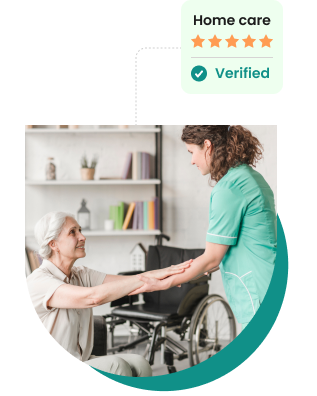
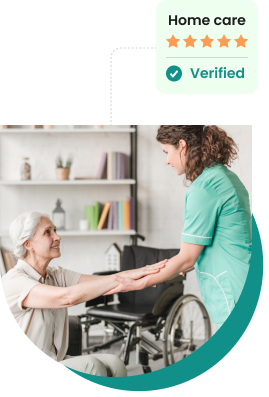
changes

diff --git a/src/layout/Header.jsx b/src/layout/Header.jsx
@@ -2,19 +2,31 @@ import React from "react";
 
 function Header() {
   return (
-    <header className="bg-gray-100 py-4 px-8 shadow-md">
-      <div className="container mx-auto flex justify-between items-center">
+    <header
+      className=" py-5 px-8 shadow-lg shadow-black border-b-2 border-[#EAEAF1]	
+
+"
+    >
+      <div className="container mx-auto flex justify-between items-center ">
         {/* Logo */}
         <div className="font-bold text-2xl">
           <a href="/" className="text-gray-800">
-            <svg width="140" height="23" viewBox="0 0 140 23" fill="none" xmlns="http://www.w3.org/2000/svg">
-              <path d="M2.308 17.5C1.828 17.5 1.436 17.404 1.132 17.212C0.828 17.004 0.62 16.732 0.508 16.396C0.412 16.044 0.412 15.66 0.508 15.244C0.62 14.828 0.844 14.412 1.18 13.996L9.916 2.548V3.676H2.02C1.492 3.676 1.084 3.54 0.796 3.268C0.524 2.996 0.388 2.612 0.388 2.116C0.388 1.62 0.524 1.244 0.796 0.987999C1.084 0.715999 1.492 0.579999 2.02 0.579999H11.668C12.164 0.579999 12.556 0.683999 12.844 0.891999C13.148 1.084 13.356 1.348 13.468 1.684C13.58 2.02 13.58 2.404 13.468 2.836C13.356 3.252 13.132 3.668 12.796 4.084L4.06 15.508V14.404H12.34C12.868 14.404 13.268 14.54 13.54 14.812C13.828 15.068 13.972 15.444 13.972 15.94C13.972 16.452 13.828 16.844 13.54 17.116C13.268 17.372 12.868 17.5 12.34 17.5H2.308ZM18.1002 22.036C17.6842 22.036 17.3402 21.924 17.0682 21.7C16.7962 21.476 16.6362 21.18 16.5882 20.812C16.5402 20.46 16.6042 20.084 16.7802 19.684L18.3882 16.132V17.62L14.1402 7.876C13.9802 7.46 13.9242 7.076 13.9722 6.724C14.0362 6.356 14.2122 6.068 14.5002 5.86C14.8042 5.636 15.2202 5.524 15.7482 5.524C16.1802 5.524 16.5242 5.628 16.7802 5.836C17.0522 6.028 17.3002 6.404 17.5242 6.964L20.3562 14.164H19.5882L22.5162 6.94C22.7402 6.396 22.9882 6.028 23.2602 5.836C23.5482 5.628 23.9322 5.524 24.4122 5.524C24.8282 5.524 25.1562 5.636 25.3962 5.86C25.6522 6.068 25.8042 6.348 25.8522 6.7C25.9162 7.052 25.8522 7.436 25.6602 7.852L20.0202 20.644C19.7802 21.188 19.5082 21.556 19.2042 21.748C18.9162 21.94 18.5482 22.036 18.1002 22.036ZM29.5531 17.716C28.9451 17.716 28.4811 17.556 28.1611 17.236C27.8411 16.916 27.6811 16.46 27.6811 15.868V7.348C27.6811 6.756 27.8331 6.308 28.1371 6.004C28.4571 5.684 28.8971 5.524 29.4571 5.524C30.0331 5.524 30.4731 5.684 30.7771 6.004C31.0811 6.308 31.2331 6.756 31.2331 7.348V8.596H30.9931C31.1851 7.636 31.6091 6.892 32.2651 6.364C32.9211 5.836 33.7691 5.54 34.8091 5.476C35.2091 5.444 35.5131 5.548 35.7211 5.788C35.9451 6.012 36.0651 6.388 36.0811 6.916C36.1131 7.412 36.0091 7.804 35.7691 8.092C35.5451 8.38 35.1611 8.556 34.6171 8.62L34.0651 8.668C33.1531 8.748 32.4731 9.012 32.0251 9.46C31.5931 9.908 31.3771 10.556 31.3771 11.404V15.868C31.3771 16.46 31.2171 16.916 30.8971 17.236C30.5931 17.556 30.1451 17.716 29.5531 17.716ZM41.4385 17.764C40.5745 17.764 39.7985 17.596 39.1105 17.26C38.4225 16.924 37.8865 16.468 37.5025 15.892C37.1185 15.316 36.9265 14.668 36.9265 13.948C36.9265 13.084 37.1505 12.404 37.5985 11.908C38.0465 11.396 38.7745 11.036 39.7825 10.828C40.7905 10.604 42.1265 10.492 43.7905 10.492H45.0625V12.364H43.8145C42.9985 12.364 42.3345 12.412 41.8225 12.508C41.3265 12.588 40.9665 12.732 40.7425 12.94C40.5345 13.148 40.4305 13.436 40.4305 13.804C40.4305 14.252 40.5825 14.62 40.8865 14.908C41.2065 15.196 41.6625 15.34 42.2545 15.34C42.7185 15.34 43.1265 15.236 43.4785 15.028C43.8465 14.804 44.1345 14.508 44.3425 14.14C44.5505 13.756 44.6545 13.324 44.6545 12.844V10.084C44.6545 9.38 44.4945 8.884 44.1745 8.596C43.8545 8.292 43.3105 8.14 42.5425 8.14C42.1105 8.14 41.6385 8.196 41.1265 8.308C40.6305 8.404 40.0785 8.572 39.4705 8.812C39.1185 8.972 38.8065 9.012 38.5345 8.932C38.2625 8.836 38.0545 8.676 37.9105 8.452C37.7665 8.212 37.6945 7.956 37.6945 7.684C37.6945 7.396 37.7745 7.124 37.9345 6.868C38.0945 6.596 38.3585 6.396 38.7265 6.268C39.4785 5.964 40.1825 5.756 40.8385 5.644C41.5105 5.532 42.1265 5.476 42.6865 5.476C43.9185 5.476 44.9265 5.66 45.7105 6.028C46.5105 6.38 47.1105 6.932 47.5105 7.684C47.9105 8.42 48.1105 9.372 48.1105 10.54V15.868C48.1105 16.46 47.9665 16.916 47.6785 17.236C47.3905 17.556 46.9745 17.716 46.4305 17.716C45.8865 17.716 45.4625 17.556 45.1585 17.236C44.8705 16.916 44.7265 16.46 44.7265 15.868V14.98L44.8945 15.124C44.7985 15.668 44.5905 16.14 44.2705 16.54C43.9665 16.924 43.5745 17.228 43.0945 17.452C42.6145 17.66 42.0625 17.764 41.4385 17.764ZM52.9979 17.716C52.3899 17.716 51.9259 17.548 51.6059 17.212C51.2859 16.876 51.1259 16.404 51.1259 15.796V2.284C51.1259 1.676 51.2859 1.204 51.6059 0.868C51.9259 0.531999 52.3899 0.363999 52.9979 0.363999C53.5899 0.363999 54.0459 0.531999 54.3659 0.868C54.6859 1.204 54.8459 1.676 54.8459 2.284V7.372H62.7179V2.284C62.7179 1.676 62.8779 1.204 63.1979 0.868C63.5179 0.531999 63.9739 0.363999 64.5659 0.363999C65.1739 0.363999 65.6379 0.531999 65.9579 0.868C66.2779 1.204 66.4379 1.676 66.4379 2.284V15.796C66.4379 16.404 66.2779 16.876 65.9579 17.212C65.6379 17.548 65.1739 17.716 64.5659 17.716C63.9739 17.716 63.5179 17.548 63.1979 17.212C62.8779 16.876 62.7179 16.404 62.7179 15.796V10.468H54.8459V15.796C54.8459 16.404 54.6859 16.876 54.3659 17.212C54.0619 17.548 53.6059 17.716 52.9979 17.716ZM75.6604 17.764C74.2684 17.764 73.0684 17.516 72.0604 17.02C71.0684 16.508 70.3004 15.796 69.7564 14.884C69.2284 13.956 68.9644 12.868 68.9644 11.62C68.9644 10.404 69.2204 9.34 69.7324 8.428C70.2444 7.5 70.9564 6.78 71.8684 6.268C72.7964 5.74 73.8444 5.476 75.0124 5.476C75.8604 5.476 76.6284 5.62 77.3164 5.908C78.0044 6.18 78.5964 6.58 79.0924 7.108C79.5884 7.62 79.9644 8.252 80.2204 9.004C80.4764 9.74 80.6044 10.564 80.6044 11.476C80.6044 11.78 80.5084 12.012 80.3164 12.172C80.1244 12.316 79.8444 12.388 79.4764 12.388H71.9404V10.516H77.9884L77.6044 10.852C77.6044 10.196 77.5084 9.652 77.3164 9.22C77.1244 8.772 76.8444 8.436 76.4764 8.212C76.1244 7.988 75.6844 7.876 75.1564 7.876C74.5644 7.876 74.0604 8.012 73.6444 8.284C73.2284 8.556 72.9084 8.948 72.6844 9.46C72.4604 9.972 72.3484 10.588 72.3484 11.308V11.5C72.3484 12.716 72.6284 13.612 73.1884 14.188C73.7644 14.764 74.6124 15.052 75.7324 15.052C76.1164 15.052 76.5564 15.004 77.0524 14.908C77.5484 14.812 78.0124 14.66 78.4444 14.452C78.8124 14.276 79.1404 14.22 79.4284 14.284C79.7164 14.332 79.9404 14.46 80.1004 14.668C80.2604 14.876 80.3484 15.116 80.3644 15.388C80.3964 15.66 80.3404 15.932 80.1964 16.204C80.0524 16.46 79.8124 16.676 79.4764 16.852C78.9324 17.156 78.3164 17.38 77.6284 17.524C76.9564 17.684 76.3004 17.764 75.6604 17.764ZM86.6963 17.764C85.8323 17.764 85.0563 17.596 84.3683 17.26C83.6803 16.924 83.1443 16.468 82.7603 15.892C82.3763 15.316 82.1843 14.668 82.1843 13.948C82.1843 13.084 82.4083 12.404 82.8563 11.908C83.3043 11.396 84.0323 11.036 85.0403 10.828C86.0483 10.604 87.3843 10.492 89.0483 10.492H90.3203V12.364H89.0723C88.2563 12.364 87.5923 12.412 87.0803 12.508C86.5843 12.588 86.2243 12.732 86.0003 12.94C85.7923 13.148 85.6883 13.436 85.6883 13.804C85.6883 14.252 85.8403 14.62 86.1443 14.908C86.4643 15.196 86.9203 15.34 87.5123 15.34C87.9763 15.34 88.3843 15.236 88.7363 15.028C89.1043 14.804 89.3923 14.508 89.6003 14.14C89.8083 13.756 89.9123 13.324 89.9123 12.844V10.084C89.9123 9.38 89.7523 8.884 89.4323 8.596C89.1123 8.292 88.5683 8.14 87.8003 8.14C87.3683 8.14 86.8963 8.196 86.3843 8.308C85.8883 8.404 85.3363 8.572 84.7283 8.812C84.3763 8.972 84.0643 9.012 83.7923 8.932C83.5203 8.836 83.3123 8.676 83.1683 8.452C83.0243 8.212 82.9523 7.956 82.9523 7.684C82.9523 7.396 83.0323 7.124 83.1923 6.868C83.3523 6.596 83.6163 6.396 83.9843 6.268C84.7363 5.964 85.4403 5.756 86.0963 5.644C86.7683 5.532 87.3843 5.476 87.9443 5.476C89.1763 5.476 90.1843 5.66 90.9683 6.028C91.7683 6.38 92.3683 6.932 92.7683 7.684C93.1683 8.42 93.3683 9.372 93.3683 10.54V15.868C93.3683 16.46 93.2243 16.916 92.9363 17.236C92.6483 17.556 92.2323 17.716 91.6883 17.716C91.1443 17.716 90.7203 17.556 90.4163 17.236C90.1283 16.916 89.9843 16.46 89.9843 15.868V14.98L90.1523 15.124C90.0563 15.668 89.8483 16.14 89.5283 16.54C89.2243 16.924 88.8323 17.228 88.3523 17.452C87.8723 17.66 87.3203 17.764 86.6963 17.764ZM100.32 17.764C98.8957 17.764 97.8317 17.372 97.1277 16.588C96.4237 15.788 96.0717 14.604 96.0717 13.036V2.212C96.0717 1.604 96.2237 1.148 96.5277 0.844C96.8477 0.523999 97.3037 0.363999 97.8957 0.363999C98.4717 0.363999 98.9117 0.523999 99.2157 0.844C99.5357 1.148 99.6957 1.604 99.6957 2.212V12.892C99.6957 13.548 99.8317 14.036 100.104 14.356C100.392 14.66 100.768 14.812 101.232 14.812C101.36 14.812 101.48 14.804 101.592 14.788C101.704 14.772 101.824 14.764 101.952 14.764C102.208 14.732 102.384 14.812 102.48 15.004C102.592 15.18 102.648 15.54 102.648 16.084C102.648 16.564 102.552 16.932 102.36 17.188C102.168 17.428 101.872 17.588 101.472 17.668C101.312 17.684 101.128 17.7 100.92 17.716C100.712 17.748 100.512 17.764 100.32 17.764ZM109.496 17.764C108.392 17.764 107.464 17.58 106.712 17.212C105.976 16.844 105.424 16.308 105.056 15.604C104.704 14.9 104.528 14.012 104.528 12.94V8.428H103.52C103.072 8.428 102.72 8.308 102.464 8.068C102.224 7.828 102.104 7.5 102.104 7.084C102.104 6.636 102.224 6.3 102.464 6.076C102.72 5.836 103.072 5.716 103.52 5.716H104.528V3.892C104.528 3.284 104.688 2.828 105.008 2.524C105.328 2.204 105.776 2.044 106.352 2.044C106.944 2.044 107.392 2.204 107.696 2.524C108 2.828 108.152 3.284 108.152 3.892V5.716H110.432C110.88 5.716 111.224 5.836 111.464 6.076C111.704 6.3 111.824 6.636 111.824 7.084C111.824 7.5 111.704 7.828 111.464 8.068C111.224 8.308 110.88 8.428 110.432 8.428H108.152V12.796C108.152 13.468 108.304 13.972 108.608 14.308C108.928 14.644 109.432 14.812 110.12 14.812C110.36 14.812 110.584 14.788 110.792 14.74C111 14.692 111.192 14.66 111.368 14.644C111.592 14.628 111.776 14.7 111.92 14.86C112.064 15.004 112.136 15.332 112.136 15.844C112.136 16.228 112.072 16.564 111.944 16.852C111.816 17.14 111.592 17.348 111.272 17.476C111.064 17.556 110.776 17.62 110.408 17.668C110.056 17.732 109.752 17.764 109.496 17.764ZM115.614 17.716C115.022 17.716 114.566 17.556 114.246 17.236C113.942 16.916 113.79 16.46 113.79 15.868V2.212C113.79 1.604 113.942 1.148 114.246 0.844C114.566 0.523999 115.022 0.363999 115.614 0.363999C116.19 0.363999 116.63 0.523999 116.934 0.844C117.254 1.148 117.414 1.604 117.414 2.212V7.924H117.078C117.446 7.14 117.99 6.54 118.71 6.124C119.446 5.692 120.278 5.476 121.206 5.476C122.15 5.476 122.926 5.66 123.534 6.028C124.142 6.38 124.598 6.924 124.902 7.66C125.206 8.38 125.358 9.3 125.358 10.42V15.868C125.358 16.46 125.198 16.916 124.878 17.236C124.574 17.556 124.126 17.716 123.534 17.716C122.958 17.716 122.51 17.556 122.19 17.236C121.886 16.916 121.734 16.46 121.734 15.868V10.588C121.734 9.772 121.582 9.188 121.278 8.836C120.99 8.468 120.542 8.284 119.934 8.284C119.166 8.284 118.55 8.524 118.086 9.004C117.638 9.484 117.414 10.124 117.414 10.924V15.868C117.414 17.1 116.814 17.716 115.614 17.716ZM133.872 16.756C133.456 16.756 133.136 16.644 132.912 16.42C132.688 16.18 132.576 15.852 132.576 15.436V11.86H129.072C128.672 11.86 128.36 11.756 128.136 11.548C127.912 11.324 127.8 11.012 127.8 10.612C127.8 10.212 127.912 9.908 128.136 9.7C128.36 9.476 128.672 9.364 129.072 9.364H132.576V5.932C132.576 5.5 132.688 5.172 132.912 4.948C133.136 4.724 133.464 4.612 133.896 4.612C134.312 4.612 134.624 4.724 134.832 4.948C135.056 5.172 135.168 5.5 135.168 5.932V9.364H138.672C139.088 9.364 139.4 9.476 139.608 9.7C139.832 9.908 139.944 10.212 139.944 10.612C139.944 11.012 139.832 11.324 139.608 11.548C139.4 11.756 139.088 11.86 138.672 11.86H135.168V15.436C135.168 15.852 135.056 16.18 134.832 16.42C134.624 16.644 134.304 16.756 133.872 16.756Z" fill="#1C2024" />
+            <svg
+              width="140"
+              height="23"
+              viewBox="0 0 140 23"
+              fill="none"
+              xmlns="http://www.w3.org/2000/svg"
+            >
+              <path
+                d="M2.308 17.5C1.828 17.5 1.436 17.404 1.132 17.212C0.828 17.004 0.62 16.732 0.508 16.396C0.412 16.044 0.412 15.66 0.508 15.244C0.62 14.828 0.844 14.412 1.18 13.996L9.916 2.548V3.676H2.02C1.492 3.676 1.084 3.54 0.796 3.268C0.524 2.996 0.388 2.612 0.388 2.116C0.388 1.62 0.524 1.244 0.796 0.987999C1.084 0.715999 1.492 0.579999 2.02 0.579999H11.668C12.164 0.579999 12.556 0.683999 12.844 0.891999C13.148 1.084 13.356 1.348 13.468 1.684C13.58 2.02 13.58 2.404 13.468 2.836C13.356 3.252 13.132 3.668 12.796 4.084L4.06 15.508V14.404H12.34C12.868 14.404 13.268 14.54 13.54 14.812C13.828 15.068 13.972 15.444 13.972 15.94C13.972 16.452 13.828 16.844 13.54 17.116C13.268 17.372 12.868 17.5 12.34 17.5H2.308ZM18.1002 22.036C17.6842 22.036 17.3402 21.924 17.0682 21.7C16.7962 21.476 16.6362 21.18 16.5882 20.812C16.5402 20.46 16.6042 20.084 16.7802 19.684L18.3882 16.132V17.62L14.1402 7.876C13.9802 7.46 13.9242 7.076 13.9722 6.724C14.0362 6.356 14.2122 6.068 14.5002 5.86C14.8042 5.636 15.2202 5.524 15.7482 5.524C16.1802 5.524 16.5242 5.628 16.7802 5.836C17.0522 6.028 17.3002 6.404 17.5242 6.964L20.3562 14.164H19.5882L22.5162 6.94C22.7402 6.396 22.9882 6.028 23.2602 5.836C23.5482 5.628 23.9322 5.524 24.4122 5.524C24.8282 5.524 25.1562 5.636 25.3962 5.86C25.6522 6.068 25.8042 6.348 25.8522 6.7C25.9162 7.052 25.8522 7.436 25.6602 7.852L20.0202 20.644C19.7802 21.188 19.5082 21.556 19.2042 21.748C18.9162 21.94 18.5482 22.036 18.1002 22.036ZM29.5531 17.716C28.9451 17.716 28.4811 17.556 28.1611 17.236C27.8411 16.916 27.6811 16.46 27.6811 15.868V7.348C27.6811 6.756 27.8331 6.308 28.1371 6.004C28.4571 5.684 28.8971 5.524 29.4571 5.524C30.0331 5.524 30.4731 5.684 30.7771 6.004C31.0811 6.308 31.2331 6.756 31.2331 7.348V8.596H30.9931C31.1851 7.636 31.6091 6.892 32.2651 6.364C32.9211 5.836 33.7691 5.54 34.8091 5.476C35.2091 5.444 35.5131 5.548 35.7211 5.788C35.9451 6.012 36.0651 6.388 36.0811 6.916C36.1131 7.412 36.0091 7.804 35.7691 8.092C35.5451 8.38 35.1611 8.556 34.6171 8.62L34.0651 8.668C33.1531 8.748 32.4731 9.012 32.0251 9.46C31.5931 9.908 31.3771 10.556 31.3771 11.404V15.868C31.3771 16.46 31.2171 16.916 30.8971 17.236C30.5931 17.556 30.1451 17.716 29.5531 17.716ZM41.4385 17.764C40.5745 17.764 39.7985 17.596 39.1105 17.26C38.4225 16.924 37.8865 16.468 37.5025 15.892C37.1185 15.316 36.9265 14.668 36.9265 13.948C36.9265 13.084 37.1505 12.404 37.5985 11.908C38.0465 11.396 38.7745 11.036 39.7825 10.828C40.7905 10.604 42.1265 10.492 43.7905 10.492H45.0625V12.364H43.8145C42.9985 12.364 42.3345 12.412 41.8225 12.508C41.3265 12.588 40.9665 12.732 40.7425 12.94C40.5345 13.148 40.4305 13.436 40.4305 13.804C40.4305 14.252 40.5825 14.62 40.8865 14.908C41.2065 15.196 41.6625 15.34 42.2545 15.34C42.7185 15.34 43.1265 15.236 43.4785 15.028C43.8465 14.804 44.1345 14.508 44.3425 14.14C44.5505 13.756 44.6545 13.324 44.6545 12.844V10.084C44.6545 9.38 44.4945 8.884 44.1745 8.596C43.8545 8.292 43.3105 8.14 42.5425 8.14C42.1105 8.14 41.6385 8.196 41.1265 8.308C40.6305 8.404 40.0785 8.572 39.4705 8.812C39.1185 8.972 38.8065 9.012 38.5345 8.932C38.2625 8.836 38.0545 8.676 37.9105 8.452C37.7665 8.212 37.6945 7.956 37.6945 7.684C37.6945 7.396 37.7745 7.124 37.9345 6.868C38.0945 6.596 38.3585 6.396 38.7265 6.268C39.4785 5.964 40.1825 5.756 40.8385 5.644C41.5105 5.532 42.1265 5.476 42.6865 5.476C43.9185 5.476 44.9265 5.66 45.7105 6.028C46.5105 6.38 47.1105 6.932 47.5105 7.684C47.9105 8.42 48.1105 9.372 48.1105 10.54V15.868C48.1105 16.46 47.9665 16.916 47.6785 17.236C47.3905 17.556 46.9745 17.716 46.4305 17.716C45.8865 17.716 45.4625 17.556 45.1585 17.236C44.8705 16.916 44.7265 16.46 44.7265 15.868V14.98L44.8945 15.124C44.7985 15.668 44.5905 16.14 44.2705 16.54C43.9665 16.924 43.5745 17.228 43.0945 17.452C42.6145 17.66 42.0625 17.764 41.4385 17.764ZM52.9979 17.716C52.3899 17.716 51.9259 17.548 51.6059 17.212C51.2859 16.876 51.1259 16.404 51.1259 15.796V2.284C51.1259 1.676 51.2859 1.204 51.6059 0.868C51.9259 0.531999 52.3899 0.363999 52.9979 0.363999C53.5899 0.363999 54.0459 0.531999 54.3659 0.868C54.6859 1.204 54.8459 1.676 54.8459 2.284V7.372H62.7179V2.284C62.7179 1.676 62.8779 1.204 63.1979 0.868C63.5179 0.531999 63.9739 0.363999 64.5659 0.363999C65.1739 0.363999 65.6379 0.531999 65.9579 0.868C66.2779 1.204 66.4379 1.676 66.4379 2.284V15.796C66.4379 16.404 66.2779 16.876 65.9579 17.212C65.6379 17.548 65.1739 17.716 64.5659 17.716C63.9739 17.716 63.5179 17.548 63.1979 17.212C62.8779 16.876 62.7179 16.404 62.7179 15.796V10.468H54.8459V15.796C54.8459 16.404 54.6859 16.876 54.3659 17.212C54.0619 17.548 53.6059 17.716 52.9979 17.716ZM75.6604 17.764C74.2684 17.764 73.0684 17.516 72.0604 17.02C71.0684 16.508 70.3004 15.796 69.7564 14.884C69.2284 13.956 68.9644 12.868 68.9644 11.62C68.9644 10.404 69.2204 9.34 69.7324 8.428C70.2444 7.5 70.9564 6.78 71.8684 6.268C72.7964 5.74 73.8444 5.476 75.0124 5.476C75.8604 5.476 76.6284 5.62 77.3164 5.908C78.0044 6.18 78.5964 6.58 79.0924 7.108C79.5884 7.62 79.9644 8.252 80.2204 9.004C80.4764 9.74 80.6044 10.564 80.6044 11.476C80.6044 11.78 80.5084 12.012 80.3164 12.172C80.1244 12.316 79.8444 12.388 79.4764 12.388H71.9404V10.516H77.9884L77.6044 10.852C77.6044 10.196 77.5084 9.652 77.3164 9.22C77.1244 8.772 76.8444 8.436 76.4764 8.212C76.1244 7.988 75.6844 7.876 75.1564 7.876C74.5644 7.876 74.0604 8.012 73.6444 8.284C73.2284 8.556 72.9084 8.948 72.6844 9.46C72.4604 9.972 72.3484 10.588 72.3484 11.308V11.5C72.3484 12.716 72.6284 13.612 73.1884 14.188C73.7644 14.764 74.6124 15.052 75.7324 15.052C76.1164 15.052 76.5564 15.004 77.0524 14.908C77.5484 14.812 78.0124 14.66 78.4444 14.452C78.8124 14.276 79.1404 14.22 79.4284 14.284C79.7164 14.332 79.9404 14.46 80.1004 14.668C80.2604 14.876 80.3484 15.116 80.3644 15.388C80.3964 15.66 80.3404 15.932 80.1964 16.204C80.0524 16.46 79.8124 16.676 79.4764 16.852C78.9324 17.156 78.3164 17.38 77.6284 17.524C76.9564 17.684 76.3004 17.764 75.6604 17.764ZM86.6963 17.764C85.8323 17.764 85.0563 17.596 84.3683 17.26C83.6803 16.924 83.1443 16.468 82.7603 15.892C82.3763 15.316 82.1843 14.668 82.1843 13.948C82.1843 13.084 82.4083 12.404 82.8563 11.908C83.3043 11.396 84.0323 11.036 85.0403 10.828C86.0483 10.604 87.3843 10.492 89.0483 10.492H90.3203V12.364H89.0723C88.2563 12.364 87.5923 12.412 87.0803 12.508C86.5843 12.588 86.2243 12.732 86.0003 12.94C85.7923 13.148 85.6883 13.436 85.6883 13.804C85.6883 14.252 85.8403 14.62 86.1443 14.908C86.4643 15.196 86.9203 15.34 87.5123 15.34C87.9763 15.34 88.3843 15.236 88.7363 15.028C89.1043 14.804 89.3923 14.508 89.6003 14.14C89.8083 13.756 89.9123 13.324 89.9123 12.844V10.084C89.9123 9.38 89.7523 8.884 89.4323 8.596C89.1123 8.292 88.5683 8.14 87.8003 8.14C87.3683 8.14 86.8963 8.196 86.3843 8.308C85.8883 8.404 85.3363 8.572 84.7283 8.812C84.3763 8.972 84.0643 9.012 83.7923 8.932C83.5203 8.836 83.3123 8.676 83.1683 8.452C83.0243 8.212 82.9523 7.956 82.9523 7.684C82.9523 7.396 83.0323 7.124 83.1923 6.868C83.3523 6.596 83.6163 6.396 83.9843 6.268C84.7363 5.964 85.4403 5.756 86.0963 5.644C86.7683 5.532 87.3843 5.476 87.9443 5.476C89.1763 5.476 90.1843 5.66 90.9683 6.028C91.7683 6.38 92.3683 6.932 92.7683 7.684C93.1683 8.42 93.3683 9.372 93.3683 10.54V15.868C93.3683 16.46 93.2243 16.916 92.9363 17.236C92.6483 17.556 92.2323 17.716 91.6883 17.716C91.1443 17.716 90.7203 17.556 90.4163 17.236C90.1283 16.916 89.9843 16.46 89.9843 15.868V14.98L90.1523 15.124C90.0563 15.668 89.8483 16.14 89.5283 16.54C89.2243 16.924 88.8323 17.228 88.3523 17.452C87.8723 17.66 87.3203 17.764 86.6963 17.764ZM100.32 17.764C98.8957 17.764 97.8317 17.372 97.1277 16.588C96.4237 15.788 96.0717 14.604 96.0717 13.036V2.212C96.0717 1.604 96.2237 1.148 96.5277 0.844C96.8477 0.523999 97.3037 0.363999 97.8957 0.363999C98.4717 0.363999 98.9117 0.523999 99.2157 0.844C99.5357 1.148 99.6957 1.604 99.6957 2.212V12.892C99.6957 13.548 99.8317 14.036 100.104 14.356C100.392 14.66 100.768 14.812 101.232 14.812C101.36 14.812 101.48 14.804 101.592 14.788C101.704 14.772 101.824 14.764 101.952 14.764C102.208 14.732 102.384 14.812 102.48 15.004C102.592 15.18 102.648 15.54 102.648 16.084C102.648 16.564 102.552 16.932 102.36 17.188C102.168 17.428 101.872 17.588 101.472 17.668C101.312 17.684 101.128 17.7 100.92 17.716C100.712 17.748 100.512 17.764 100.32 17.764ZM109.496 17.764C108.392 17.764 107.464 17.58 106.712 17.212C105.976 16.844 105.424 16.308 105.056 15.604C104.704 14.9 104.528 14.012 104.528 12.94V8.428H103.52C103.072 8.428 102.72 8.308 102.464 8.068C102.224 7.828 102.104 7.5 102.104 7.084C102.104 6.636 102.224 6.3 102.464 6.076C102.72 5.836 103.072 5.716 103.52 5.716H104.528V3.892C104.528 3.284 104.688 2.828 105.008 2.524C105.328 2.204 105.776 2.044 106.352 2.044C106.944 2.044 107.392 2.204 107.696 2.524C108 2.828 108.152 3.284 108.152 3.892V5.716H110.432C110.88 5.716 111.224 5.836 111.464 6.076C111.704 6.3 111.824 6.636 111.824 7.084C111.824 7.5 111.704 7.828 111.464 8.068C111.224 8.308 110.88 8.428 110.432 8.428H108.152V12.796C108.152 13.468 108.304 13.972 108.608 14.308C108.928 14.644 109.432 14.812 110.12 14.812C110.36 14.812 110.584 14.788 110.792 14.74C111 14.692 111.192 14.66 111.368 14.644C111.592 14.628 111.776 14.7 111.92 14.86C112.064 15.004 112.136 15.332 112.136 15.844C112.136 16.228 112.072 16.564 111.944 16.852C111.816 17.14 111.592 17.348 111.272 17.476C111.064 17.556 110.776 17.62 110.408 17.668C110.056 17.732 109.752 17.764 109.496 17.764ZM115.614 17.716C115.022 17.716 114.566 17.556 114.246 17.236C113.942 16.916 113.79 16.46 113.79 15.868V2.212C113.79 1.604 113.942 1.148 114.246 0.844C114.566 0.523999 115.022 0.363999 115.614 0.363999C116.19 0.363999 116.63 0.523999 116.934 0.844C117.254 1.148 117.414 1.604 117.414 2.212V7.924H117.078C117.446 7.14 117.99 6.54 118.71 6.124C119.446 5.692 120.278 5.476 121.206 5.476C122.15 5.476 122.926 5.66 123.534 6.028C124.142 6.38 124.598 6.924 124.902 7.66C125.206 8.38 125.358 9.3 125.358 10.42V15.868C125.358 16.46 125.198 16.916 124.878 17.236C124.574 17.556 124.126 17.716 123.534 17.716C122.958 17.716 122.51 17.556 122.19 17.236C121.886 16.916 121.734 16.46 121.734 15.868V10.588C121.734 9.772 121.582 9.188 121.278 8.836C120.99 8.468 120.542 8.284 119.934 8.284C119.166 8.284 118.55 8.524 118.086 9.004C117.638 9.484 117.414 10.124 117.414 10.924V15.868C117.414 17.1 116.814 17.716 115.614 17.716ZM133.872 16.756C133.456 16.756 133.136 16.644 132.912 16.42C132.688 16.18 132.576 15.852 132.576 15.436V11.86H129.072C128.672 11.86 128.36 11.756 128.136 11.548C127.912 11.324 127.8 11.012 127.8 10.612C127.8 10.212 127.912 9.908 128.136 9.7C128.36 9.476 128.672 9.364 129.072 9.364H132.576V5.932C132.576 5.5 132.688 5.172 132.912 4.948C133.136 4.724 133.464 4.612 133.896 4.612C134.312 4.612 134.624 4.724 134.832 4.948C135.056 5.172 135.168 5.5 135.168 5.932V9.364H138.672C139.088 9.364 139.4 9.476 139.608 9.7C139.832 9.908 139.944 10.212 139.944 10.612C139.944 11.012 139.832 11.324 139.608 11.548C139.4 11.756 139.088 11.86 138.672 11.86H135.168V15.436C135.168 15.852 135.056 16.18 134.832 16.42C134.624 16.644 134.304 16.756 133.872 16.756Z"
+                fill="#1C2024"
+              />
             </svg>
           </a>
         </div>
 
-     
-        <nav className="space-x-6">
+        <nav className="flex gap-12	">
           <a
             href="#"
             className=" hover:text-gray-900 text-[17px] text-[#5E5E6F] font-semibold"

diff --git a/src/components/Hero.jsx b/src/components/Hero.jsx
@@ -2,23 +2,26 @@ import React from "react";
 
 function HomeSection() {
   return (
-    <section className="bg-gradient-to-b from-gray-100 to-pink-50 py-16 px-4">
+    <section className="bg-gradient-to-b from-[#FFFDFD] via-[#FFFDFD] to-[#F7E7E7] py-16 px-4 relative ">
       <div className="container mx-auto text-center">
         {/* Left Image and Text */}
-        <div className="flex items-center">
-          <div className="w-1/4 flex flex-col items-center">
-         <img src="images/HeroImage.png" alt="" srcset="" />
-            <div className="text-center text-sm text-gray-600">
+        <div
+          className="flex items-end pb-6
+        "
+        >
+          <div className=" flex flex-col items-center gap-3.5	">
+            <div className="text-center text-sm text-gray-600 bg-[#FDE7FF] py-2.5	px-2.5 rounded-2xl		">
               <p className="font-semibold">Kelly, Age 74</p>
               <p>Needs companion care</p>
             </div>
+            <img src="images/HeroLeft.png" alt="" srcset="" />
           </div>
           <div>
             {/* Heading */}
-            <h1 className="text-6xl font-bold text-gray-800 mb-4">
+            <h1 className="text-6xl font-bold text-gray-800 mb-5">
               Comfort. Choice. Home
             </h1>
-            <p className="text-2xl	 text-gray-600 mb-8">
+            <p className="text-2xl	 text-gray-600 mb-10 w-8/12	mx-auto	">
               Find trusted vendors to help with{" "}
               <span className="text-[#109088] font-semibold">
                 Personal Care
@@ -33,76 +36,69 @@ function HomeSection() {
           </div>
 
           {/* Content with Images */}
-          <div className="flex justify-center items-center mb-10 space-x-4">
+          <div className="flex justify-center items-end  space-x-4">
             {/* Right Image and Text */}
-            <div className="w-1/4 flex flex-col items-center">
-              <img
-                src="./assets/images/Frame.png"
-                alt="Home care verified"
-                className="rounded-lg shadow-lg mb-2"
-              />
-              <div className="text-center text-sm text-gray-600">
-                <p className="font-semibold">Home care</p>
-                <p className="text-green-500">Verified</p>
-              </div>
+            <div className="flex flex-col items-end">
+              <img src="images/HeroImage.png" alt="" srcset="" />
             </div>
           </div>
         </div>
 
         {/* Form Section */}
-        <div className="px-10	py-9	 bg-gray-50 max-w-6xl mx-auto max-w-4xl mx-auto bg-white p-6 rounded-lg shadow-md">
+        <div className="px-10	py-6	 w-10/12	   mx-auto bg-white p-6 rounded-3xl	 shadow-md absolute	bottom-[-20%] mb-8 left-[8%]">
           <div>
-            <div className="flex gap-6 items-center justify-between">
+            <div className="grid grid-cols-4 gap-4 items-end	justify-items-end">
               {/* Left Section: Heading and Description */}
-              <div>
-                <p className="font-semibold text-black text-lg">
+              <div className="flex flex-col text-left		gap-2">
+                <p className="font-semibold text-black text-xl 	">
                   Find help now
                 </p>
-                <p className="text-gray-500 text-sm">
+                <p className="text-gray-500 text-base font-medium	text-left		">
                   Find trusted local providers to support your care needs
                 </p>
               </div>
 
               {/* Middle Section: Dropdowns */}
-              <div className="grid grid-cols-2 gap-4">
-                {/* First Dropdown Label */}
-                <div className="flex flex-col gap-2">
-                  <p className="text-gray-600 text-left	">Who needs help?</p>
-                  <select
-                    className="border border-gray-300 rounded-full px-4 py-2 text-gray-600 text-sm"
-                    defaultValue=""
-                  >
-                    <option value="" disabled>
-                      Make a selection
-                    </option>
-                    <option value="self">Self</option>
-                    <option value="family">Family</option>
-                    <option value="friend">Friend</option>
-                  </select>
-                </div>
 
-                {/* Second Dropdown Label */}
-                <div className="flex flex-col gap-2">
-                  <p className="text-gray-600 text-left	">
-                    What kind of help do you need?
-                  </p>
-                  <select
-                    className="border border-gray-300 rounded-full px-4 py-2 text-gray-600 text-sm"
-                    defaultValue=""
-                  >
-                    <option value="" disabled>
-                      Make a selection
-                    </option>
-                    <option value="personal">Personal Care</option>
-                    <option value="medical">Medical Care</option>
-                    <option value="home">Home Care</option>
-                  </select>
-                </div>
+              {/* First Dropdown Label */}
+              <div className="flex flex-col gap-2 w-full	">
+                <p className="text-gray-600 text-left font-medium		">
+                  Who needs help?
+                </p>
+                <select
+                  className="border border-gray-300 rounded-full px-4 py-3 text-gray-600 text-sm"
+                  defaultValue=""
+                >
+                  <option value="" disabled>
+                    Make a selection
+                  </option>
+                  <option value="self">Self</option>
+                  <option value="family">Family</option>
+                  <option value="friend">Friend</option>
+                </select>
+              </div>
+
+              {/* Second Dropdown Label */}
+              <div className="flex flex-col gap-2 w-full	">
+                <p className="text-gray-600 text-left font-medium		">
+                  What kind of help do you need?
+                </p>
+                <select
+                  className="border border-gray-300 rounded-full px-4 py-3	 text-gray-600 text-sm"
+                  defaultValue=""
+                >
+                  <option value="" disabled>
+                    Make a selection
+                  </option>
+                  <option value="self">Self</option>
+                  <option value="family">Family</option>
+                  <option value="friend">Friend</option>
+                </select>
               </div>
 
               {/* Right Section: Get Started Button */}
               <div>
-                <button className="border-2 border-black text-black py-2 px-6 rounded-full">
+                <button className="border-2 border-black text-black py-3	 px-9	font-medium	 rounded-full">
                   Get started
                 </button>
               </div>

diff --git a/src/components/HomeCardsContainer.jsx b/src/components/HomeCardsContainer.jsx
@@ -1,35 +1,31 @@
-
-import React from 'react';
-import HomeCard from './HomeCard';
-import cardsData from '../data/CardsData';
+import React from "react";
+import HomeCard from "./HomeCard";
+import cardsData from "../data/CardsData";
 
 function HomeCardsContainer() {
-    return (
-        <>
-            <div className='max-w-7xl mx-auto py-[80px]'>
-                <div className='text-center'>
-                    <h2 className='font-semibold text-4xl'>Right in the home you love</h2>
-                    <p className='font-medium text-xl text-[#575757] py-4'>Get professional, vetted help delivered to your home</p>
-                </div>
-                <div className="grid grid-cols-1 md:grid-cols-2 lg:grid-cols-3 gap-6 mt-[50px]">
-
-
-                    {cardsData.map((card) => (
-                        <HomeCard
-                            key={card.id}
-                            title={card.title}
-                            description={card.description}
-                            Icon={card.Icon}
-                            bgColor={card.bgColor}
-                        />
-                    ))}
-                </div>
-            </div>
-
-
-        </>
-
-    );
+  return (
+    <>
+      <div className="max-w-7xl mx-auto  py-20 mt-20	">
+        <div className="text-center">
+          <h2 className="font-semibold text-4xl">Right in the home you love</h2>
+          <p className="font-medium text-xl text-[#575757] py-4">
+            Get professional, vetted help delivered to your home
+          </p>
+        </div>
+        <div className="grid grid-cols-1 md:grid-cols-2 lg:grid-cols-3 gap-6 mt-[50px]">
+          {cardsData.map((card) => (
+            <HomeCard
+              key={card.id}
+              title={card.title}
+              description={card.description}
+              Icon={card.Icon}
+              bgColor={card.bgColor}
+            />
+          ))}
+        </div>
+      </div>
+    </>
+  );
 }
 
 export default HomeCardsContainer;

diff --git a/src/components/HeroWrapper.jsx b/src/components/HeroWrapper.jsx
@@ -2,7 +2,7 @@
 import React from "react";
 
 function HeroWrapper({}) {
-  return <div className="wrapper">hello wrapper</div>;
+  // return <div className="wrapper">hello wrapper</div>;
 }
 
 export default HeroWrapper;
